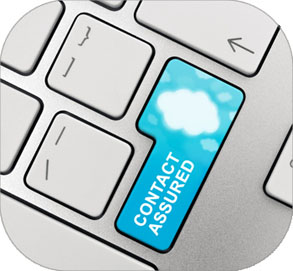
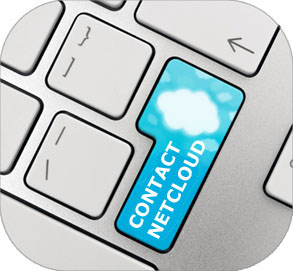
changed company name in pages

Changed region(s): [[0.43, 0.5018, 0.7065, 0.8856]]

diff --git a/site/us/about.html b/site/us/about.html
@@ -2,8 +2,7 @@
 <html xmlns="http://www.w3.org/1999/xhtml">
 <head>
 <meta http-equiv="Content-Type" content="text/html; charset=utf-8" />
-<title>云拓 - 中国云计算</title>
-<link href="style.css" rel="stylesheet" type="text/css" />
+<title>NetCloud Inc.</title>
 <style type="text/css">
 <!--
 body {
@@ -54,33 +53,36 @@ body {
                   <br />
                 </strong>IT Hosting Services, Consulting, Business Analytics &amp; Optimization,   CRM, ERP, security, software, strategy, storage, disaster recovery, enterprise   architecture, BPM, Smarter Planet, Outsourcing<br />
                     <br />
+                    <br />
                   <strong>Dramatic Cost Savings<br />
                     <br />
-                  </strong>Most of the firms Assured Technology works with, which are typically in   the small, medium and emerging firm category, are looking to aggressively manage   non-core business costs at low levels and focus their key personnel and other   resources on those things that relate to their competitive needs and core   marketplace competencies. <strong>Some clients have experienced cost savings   ranging from 20% to 70% of current IT costs</strong> after co-sourcing with   Assured Technology. <strong>Typically,</strong> <strong>our fully hosted   solutions cost less per month than half the monthly salary of an IT   employee.<br />
+                  </strong>Most of the firms NetCloud works with, which are typically in   the small, medium and emerging firm category, are looking to aggressively manage   non-core business costs at low levels and focus their key personnel and other   resources on those things that relate to their competitive needs and core   marketplace competencies. <strong>Some clients have experienced cost savings   ranging from 20% to 70% of current IT costs</strong> after co-sourcing with NetCloud. <strong>Typically,</strong> <strong>our fully hosted   solutions cost less per month than half the monthly salary of an IT   employee.<br />
+                    <br />
                     <br />
                   </strong><strong>Outstanding Availability</strong></p>
-                <p>&nbsp;</p>
-                <p>In general, Assured Technology is a provider of cloud computing resources   utilizing the latest high availability and self-healing architecture   incorporating tools such as VMware to provide service availability as high as   99%+ during normal business hours.<br />
+                <p>In general, NetCloud is a provider of cloud computing resources   utilizing the latest high availability and self-healing architecture   incorporating tools such as VMware to provide service availability as high as   99%+ during normal business hours.<br />
+                    <br />
                     <br />
                   <strong>Information Technology Consulting<br />
                     <br />
-                  </strong>Combining a solid understanding of small, medium sized and   emerging firms’ (SME) business processes with deep IT industry knowledge and   implementation rigor, Assured Technology IT consulting gives leaders practical   solutions tailored to address their most crucial business challenges. Assured   Technology provides a complete spectrum of IT consulting services ranging from   IT strategic consulting to tactical internal support services. Specific examples   include: business process enablement software package selection and   implementation support focused SMEs (see below); environmental and facilities   design support (see below); network design and implementation (see below);   workplace services support including end-user support services (e.g. Help Desk);   mobile enterprise services; security services; and platform integration and   deployment services.<br />
+                  </strong>Combining a solid understanding of small, medium sized and   emerging firms’ (SME) business processes with deep IT industry knowledge and   implementation rigor, NetCloud IT consulting gives leaders practical   solutions tailored to address their most crucial business challenges. NetCloud provides a complete spectrum of IT consulting services ranging from   IT strategic consulting to tactical internal support services. Specific examples   include: business process enablement software package selection and   implementation support focused SMEs (see below); environmental and facilities   design support (see below); network design and implementation (see below);   workplace services support including end-user support services (e.g. Help Desk);   mobile enterprise services; security services; and platform integration and   deployment services.<br />
                       <br />
+                    <br />
                     <strong>Compliance Conformance<br />
                       <br />
-                    </strong>Working with an experienced hosting firm such as Assured Technology, you   also benefit from many of the processes pertaining to compliance standards such   as ISO, HIPAA or Sarbanes-Oxley. Numerous compliance best practices are included   in our regular operating practices. For example, in a hosted environment,   regular automatic backups are included in your service agreement. No more   remembering to change the tape or worrying if data is being stored   correctly.<br />
+                    </strong>Working with an experienced hosting firm such as NetCloud, you   also benefit from many of the processes pertaining to compliance standards such   as ISO, HIPAA or Sarbanes-Oxley. Numerous compliance best practices are included   in our regular operating practices. For example, in a hosted environment,   regular automatic backups are included in your service agreement. No more   remembering to change the tape or worrying if data is being stored   correctly.<br />
                         <br />
+                    <br />
                       <strong>Going Green – Facilities Management<br />
                     </strong><br />
                     If becoming   environmentally conscious is on your list of priorities, add a point to the yes   column for our hosting your IT. Since you no longer have to power and cool a   room full of equipment, <strong>you are conserving more energy and reducing the   size of your firm’s carbon footprint</strong>. In addition to our hosting   services, we have a consulting offering in the facilities planning, design and   management area as well as all area of IT. Our consultants have supported   numerous small to medium sized businesses in planning and managing many diverse   new facility designs, expansions, moves, facilities renovations and   contractions. <strong></strong><br />
                   <br />
+                    <br />
                   <strong>Networking and Related   Services</strong></p>
-                <p>&nbsp;</p>
-                <p>One of Assured Technology’s core competencies is network design and   management. Our engineers and executives have designed, implemented and managed   best in class networks (integrated voice and data) for numerous corporations.   For example, we recently had a consulting retainer relationship with a Fortune   100 company to provide strategic and tactical network consulting. We also   provide in-depth design, implementation and management of voice and data   integrated systems, messaging and numerous internet performance and protection   services.</p>
+                <p>One of NetCloud’s core competencies is network design and   management. Our engineers and executives have designed, implemented and managed   best in class networks (integrated voice and data) for numerous corporations.   For example, we recently had a consulting retainer relationship with a Fortune   100 company to provide strategic and tactical network consulting. We also   provide in-depth design, implementation and management of voice and data   integrated systems, messaging and numerous internet performance and protection   services.</p>
                 <p>&nbsp;</p>
                 <p><strong>Middleware, Applications, CRM and ERM</strong></p>
-                <p>&nbsp;</p>
-                <p align="left"> If required by the client, Assured Technology’s Enterprise   Resource Planning (ERP) and Customer Relationship Management (CRM) specialists   leverage years of in-depth business intelligence consulting expertise to plan   and develop focused business solutions; whether you are upgrading an existing   architecture or implementing a new ERP or CRM system. Our clients have improved   productivity, decreased operational costs and mitigated compliance risk. We have   years of experience with almost all of the major middleware and applications   products in use by almost all small, medium and emerging companies.<br />
+                <p align="left"> If required by the client, NetClouds Enterprise   Resource Planning (ERP) and Customer Relationship Management (CRM) specialists   leverage years of in-depth business intelligence consulting expertise to plan   and develop focused business solutions; whether you are upgrading an existing   architecture or implementing a new ERP or CRM system. Our clients have improved   productivity, decreased operational costs and mitigated compliance risk. We have   years of experience with almost all of the major middleware and applications   products in use by almost all small, medium and emerging companies.<br />
                     <br />
                   <strong>If you would like to meet and discuss your needs and our   capabilities in a no-pressure manner, please call us at</strong> <strong>(888)   229-0183. </strong></p>                </td>
               <td width="268" valign="top" style="padding-left:15px"><table width="100%" border="0" cellspacing="0" cellpadding="0">

diff --git a/site/us/whyus.html b/site/us/whyus.html
@@ -2,8 +2,7 @@
 <html xmlns="http://www.w3.org/1999/xhtml">
 <head>
 <meta http-equiv="Content-Type" content="text/html; charset=utf-8" />
-<title>云拓 - 中国云计算</title>
-<link href="style.css" rel="stylesheet" type="text/css" />
+<title>NetCloud Inc.</title>
 <style type="text/css">
 <!--
 body {
@@ -51,20 +50,20 @@ body {
             <tr>
               <td valign="top" ><table width="100%" border="0" cellspacing="0" cellpadding="0">
                   <tr>
-                    <td style="padding-top:10px;"><h1 class="STYLE1">Why Assured Technology?</h1>
-                      <p align="left"> At    Assured Technology, the traditional outsourcing model has been enhanced to    enable our client partners to experience higher control while retaining a    dramatic positive P&amp;L impact. This new sourcing model is asset light, comprehensive    and collaborative. At Assured Technology, we refer to our service deployment    model as &ldquo;Full Service Co-Sourcing&rdquo;. Rather than just being a nice marketing    term, let&rsquo;s explain what this means to our client/partners and prospects.    First, a little background into outsourcing versus co-sourcing is    appropriate.<br />
+                    <td style="padding-top:10px;"><h1 class="STYLE1">Why NetCloud?</h1>
+                      <p align="left"> At    NetCloud, the traditional outsourcing model has been enhanced to    enable our client partners to experience higher control while retaining a    dramatic positive P&amp;L impact. This new sourcing model is asset light, comprehensive    and collaborative. At NetCloud, we refer to our service deployment    model as &ldquo;Full Service Co-Sourcing&rdquo;. Rather than just being a nice marketing    term, let&rsquo;s explain what this means to our client/partners and prospects.    First, a little background into outsourcing versus co-sourcing is    appropriate.<br />
                           <strong><br />
-                            Assured    Technology Full Service Co-Sourcing versus Outsourcing</strong><br />
+                            NetCloud. Full Service Co-Sourcing versus Outsourcing</strong><br />
   <br />
                         Corporate and IT    leaders today have complex challenges of working on multi-dimensional    strategies to ensure IT solutions deliver mission critical value while    managing risk, compliance, architecture and ever changing technologies. These challenges are    complicated and often lead to distraction from the core business imperatives,    particularly in emerging companies.  </p>
                       <p align="left">                            <br />
                         Consequently, many companies either    investigated or committed their IT resources to outsourcers. But why has    outsourcing failed in so many companies? The results of an extensive study    conducted by the Outsourcing Center are summarized in the chart below.</p>
                       <p align="left"><img src="images/chart.png" width="618" height="505" /></p>
-                      <p align="left">Although the reasons    are plentiful, the largest causes of failure can be traced to the following:    communications problems between the outsourcer and the client; poor cultural    match between the companies; and lack of understanding between the parties    and cost/performance. For these reasons and others, Assured Technology    creates strong working relationships with its clients based on face to face    relationships rather than some form of remote management, often across    multiple time zones. <strong><em>The goal of co-sourcing, as    implemented by Assured Technology is more ambitious.</em></strong> </p>
+                      <p align="left">Although the reasons    are plentiful, the largest causes of failure can be traced to the following:    communications problems between the outsourcer and the client; poor cultural    match between the companies; and lack of understanding between the parties    and cost/performance. For these reasons and others, NetCloud creates strong working relationships with its clients based on face to face    relationships rather than some form of remote management, often across    multiple time zones. <strong><em>The goal of co-sourcing, as    implemented by NetCloud is more ambitious.</em></strong> </p>
                       <p align="left"><br />
-                        Assured Technology&rsquo;s Full Service Co-Sourcing of    Information Technology is designed to create a more robust and efficient IT    function by partnering with clients to offer the most optimal level of    economic benefit and technical performance. Although almost all of the IT    systems are hosted at the Assured Technology service center, some local    computing capability such as the print server remains on the client&rsquo;s site. Client    / partners who form co-sourcing partnerships with Assured Technology are able    to rely on our IT hosting expertise, consulting capabilities and highly    skilled staff to provide additional resources that can be applied in a    flexible manner across the full scope of the IT function.</p>
+                        NetCloud &rsquo;s Full Service Co-Sourcing of    Information Technology is designed to create a more robust and efficient IT    function by partnering with clients to offer the most optimal level of    economic benefit and technical performance. Although almost all of the IT    systems are hosted at the NetCloud service center, some local    computing capability such as the print server remains on the client&rsquo;s site. Client    / partners who form co-sourcing partnerships with NetCloud are able    to rely on our IT hosting expertise, consulting capabilities and highly    skilled staff to provide additional resources that can be applied in a    flexible manner across the full scope of the IT function.</p>
                       <p align="left"> <br />
-                        Since Assured    Technology offers a packaged set of IT services that most small, medium and    emerging companies typically require, the transition to the Assured    Technology service center is a simple process that doesn&rsquo;t require significant    management time and attention. The Assured Technology technical team has    years of experience in migrating customer data into service centers. In terms    of cost, our monthly hosting cost can be as little as one-half the monthly    cost of an IT senior employee including all hardware, software, licensing    &amp; maintenance. </p>
+                        Since NetCloud offers a packaged set of IT services that most small, medium and    emerging companies typically require, the transition to the NetCloud service center is a simple process that doesn&rsquo;t require significant    management time and attention. The NetCloud technical team has    years of experience in migrating customer data into service centers. In terms    of cost, our monthly hosting cost can be as little as one-half the monthly    cost of an IT senior employee including all hardware, software, licensing    &amp; maintenance. </p>
                       <h1 align="left"><strong><br />
                         Conclusion and Next Step</strong></h1>
                       <p>Our approach    is not about &ldquo;winning the deal&rdquo; but establishing long-term mutually    beneficial service relationships. If you are interested in taking    the next steps toward improving the performance and cost-effectiveness, both    present and future, of your information technology resources, please call us    at (888)&nbsp;229-0183.</p>

diff --git a/site/us/index.html b/site/us/index.html
@@ -3,8 +3,7 @@
 <head>
 <meta http-equiv="Content-Type" content="text/html; charset=utf-8" />
 
-<title>云拓 - 中国云计算</title>
-<link href="style.css" rel="stylesheet" type="text/css" />
+<title>NetCloud Inc.</title>
 <style type="text/css">
 <!--
 body {
@@ -46,16 +45,16 @@ body {
         <td width="974" height="369" valign="top" bgcolor="#FFFFFF" style=" padding:10px;"><table width="930" border="0" cellspacing="0" cellpadding="0">
           <tr>
             <td valign="top" ><h1>Welcome</h1>
-                <p align="left">Assured Technology is a cloud-computing based computer hosting  company headquartered in Palo Alto, California. The company’s primary focus,  although it offers a full array of information technology services, is the  provision of full hosting services to small, medium and emerging companies  looking for state of the industry technology capability at surprisingly low  costs.</p>
+                <p align="left">NetCloud Inc. is a cloud-computing based computer hosting  company headquartered in Fremont, California. The company’s primary focus,  although it offers a full array of information technology services, is the  provision of full hosting services to small, medium and emerging companies  looking for state of the industry technology capability at surprisingly low  costs.</p>
                 <p align="left">&nbsp;</p>
-              <p><strong>Our goal  at Assured Technology is to help you dramatically reduce your IT budget while  realizing numerous technology and productivity enhancements.</strong><strong> </strong></p>
+              <p><strong>Our goal  at NetCloud is to help you dramatically reduce your IT budget while  realizing numerous technology and productivity enhancements.</strong><strong> </strong></p>
               <p>&nbsp;</p>
               <p><img src="images/assured-main.jpg" width="628" height="415" alt="Assured Cloud Computing" /><br />
                 Our Full Service Co-sourcing of Information Technology is  designed to create a more robust and efficient IT function by partnering with our  clients  in order to augment internal  resources in whatever way is needed. Our clients are able to rely on our IT  expertise and resources as a supplement, complement, or replacement for  internal staff. Unlike outsourcing, which would simply move a task or process  out of the organization, co-sourcing brings in additional resources that can be  applied in a flexible manner across the full responsibilities of the IT  function — from technology and transactions to analysis and strategic design.</p>
               <p>&nbsp;</p>
-              <p>From a financial, operating efficiency  and technology perspective, it now makes more sense to &ldquo;plug in&rdquo; to computing  power — just as you connect to the electric grid. In the case of Assured  Technology, <strong> our clients have experienced  cost savings ranging from 20% to 70%</strong> of current IT budgets after  co-sourcing. Today, capabilities known as &ldquo;Cloud  Computing&rdquo; and &ldquo;Infrastructure as a Service&rdquo; enable organizations to use  processing, storage, networking, security and other fundamental computing  resources without purchasing and maintaining the underlying hardware.  <strong>Typically,</strong> <strong>our fully hosted solutions cost less per  month than half the monthly salary of an IT employee.<br />
+              <p>From a financial, operating efficiency  and technology perspective, it now makes more sense to &ldquo;plug in&rdquo; to computing  power — just as you connect to the electric grid. In the case of NetCloud, <strong> our clients have experienced  cost savings ranging from 20% to 70%</strong> of current IT budgets after  co-sourcing. Today, capabilities known as &ldquo;Cloud  Computing&rdquo; and &ldquo;Infrastructure as a Service&rdquo; enable organizations to use  processing, storage, networking, security and other fundamental computing  resources without purchasing and maintaining the underlying hardware.  <strong>Typically,</strong> <strong>our fully hosted solutions cost less per  month than half the monthly salary of an IT employee.<br />
                 <br />
-              </strong>Further,  given numerous environmental concerns, Assured Technology can also reduce your data center real estate requirements while driving down power  and cooling costs through economies of scale.<br />
+              </strong>Further,  given numerous environmental concerns, NetCloud can also reduce your data center real estate requirements while driving down power  and cooling costs through economies of scale.<br />
               <br />
                 <strong>If you are  interested in exploring the next steps toward improving the performance and  cost- effectiveness, both present and future, of your information technology  resources, please call us at </strong><strong>(888)  229-0183</strong><strong><em>.</em></strong></p>
               </td>

diff --git a/site/us/pr.html b/site/us/pr.html
@@ -2,8 +2,7 @@
 <html xmlns="http://www.w3.org/1999/xhtml">
 <head>
 <meta http-equiv="Content-Type" content="text/html; charset=utf-8" />
-<title>云拓 - 中国云计算</title>
-<link href="style.css" rel="stylesheet" type="text/css" />
+<title>NetCloud Inc.</title>
 <style type="text/css">
 <!--
 body {
@@ -79,28 +78,7 @@ body {
                       </td>
                   </tr>
                 </table>
-                <h1 class="STYLE1"><strong>Testimonials</strong></h1>
-                <p>AvidBiotics Corporation  is a San Francisco Bay area biotherapeutics company deploying proprietary,  biotechnology-based platforms for multiple applications in life sciences with a 
-                  business plan that is  unconventional and austere. With 100% of the employees with scientific  credentials and dedicated to research and development the company needed an IT  consulting partner that could perform many IT technical consulting and prompt  customer service allowing us to maintain more management focus to our core  research and business.</p>
-                <p>With virtually no  internal IT expertise AvidBiotics Corporation consequently decided to secure a  relationship with a proven IT hosting and consulting company who could advise  us on multiple technical decisions; help us reduce cost; reduce the management  focus required to manage IT; and provide an on-going level of consulting and  technology innovation to our operation.</p>
-                <p>For our goals and needs,  Assured Technology was the right choice. Brian James, CEO of Assured  Technology, and his team worked closely with us to ensure our projects and  processes were achieved efficiently, cost-effectively and on-time and  on-budget. </p>
-                <p>Reflecting on our  relationship, it is clear we achieved our stated IT consulting goals in the  most value-oriented way possible. We have achieved the on-time and on-budget  imperatives we desired and have enjoyed a relationship with a company that is  very service oriented and responsive. We would encourage companies with a  similar set of business needs to investigate working with Assured Technology.</p>
-                <p><strong>Jim Knighton<br />
-                  President<br />
-                  AvidBiotics Corporation</strong></p>
-                <p></p></td>
               <td width="308" valign="top" style="padding-left:15px"><p>&nbsp;</p>
-                <p>&nbsp;</p>
-                <p>&nbsp;</p>
-                <p>&nbsp;</p>
-                <p>&nbsp;</p>
-                <p>&nbsp;</p>
-                <p>&nbsp;</p>
-                <p>&nbsp;</p>
-                <p>&nbsp;</p>
-                <p>&nbsp;</p>
-                <p>&nbsp;</p>
-                <p><img src="images/testimonials.jpg" width="293" height="306" alt="Testimonials" /></p></td>
             </tr>
           </table>
           </td>

diff --git a/site/us/news1.html b/site/us/news1.html
@@ -2,8 +2,7 @@
 <html xmlns="http://www.w3.org/1999/xhtml">
 <head>
 <meta http-equiv="Content-Type" content="text/html; charset=utf-8" />
-<title>云拓 - 中国云计算</title>
-<link href="style.css" rel="stylesheet" type="text/css" />
+<title>NetCloud Inc.</title>
 <style type="text/css">
 <!--
 body {
@@ -50,9 +49,9 @@ body {
         <td height="369" valign="top" bgcolor="#FFFFFF" style=" padding:10px;"><table width="930" border="0" cellspacing="0" cellpadding="0">
             <tr>
               <td valign="top" ><h1 class="STYLE1">Partners</h1>
-                <p>At Assured Technology we  know the strong relationships we forge with our partners will directly  translate to excellent service and strong relationships with our customers. Our  principal partners are Microsoft, Cisco, Dell, Oracle and VMware. </p>
+                <p>At NetCloud we  know the strong relationships we forge with our partners will directly  translate to excellent service and strong relationships with our customers. Our  principal partners are Microsoft, Cisco, Dell, Oracle and VMware. </p>
                 <p align="left"><br />
-                  We trust our partners because each has  been carefully selected to support our customers with business solutions and  technology that works in concert with one another and validates Assured  Technology’s architecture and product strategy. Our partners share our  commitment to customer satisfaction and support this promise with process and  results.</p>
+                  We trust our partners because each has  been carefully selected to support our customers with business solutions and  technology that works in concert with one another and validates NetCloud’s architecture and product strategy. Our partners share our  commitment to customer satisfaction and support this promise with process and  results.</p>
                 <p align="center"><strong><br />
                   </strong><br />
                   <strong><img width="250" height="42" src="images/partners/partners_clip_image001.jpg" alt="Description: Microsoft" /></strong><strong> </strong></p>

diff --git a/site/us/css/style.css b/site/us/css/style.css
@@ -50,3 +50,12 @@
 	color: #FF0000;
 	text-decoration: none;
 }
+
+
+h1 {color:#c42033;font: 16px Verdana; font-weight:bold; margin-bottom:15px }
+h2 {font-size:14px;margin-bottom:0px;}
+h2 a {text-decoration:none !important;color:#cc0000;}
+h3 {color:#2a2a2a;font: 12px Verdana;margin-bottom:15px}
+h4 {font-size: 0.8em;}
+p {color:#333333; font: 13px Verdana}
+

diff --git a/site/us/lianxiwomen.html b/site/us/lianxiwomen.html
@@ -2,8 +2,7 @@
 <html xmlns="http://www.w3.org/1999/xhtml">
 <head>
 <meta http-equiv="Content-Type" content="text/html; charset=utf-8" />
-<title>云拓 - 中国云计算</title>
-<link href="style.css" rel="stylesheet" type="text/css" />
+<title>NetCloud Inc.</title>
 <style type="text/css">
 <!--
 body {
